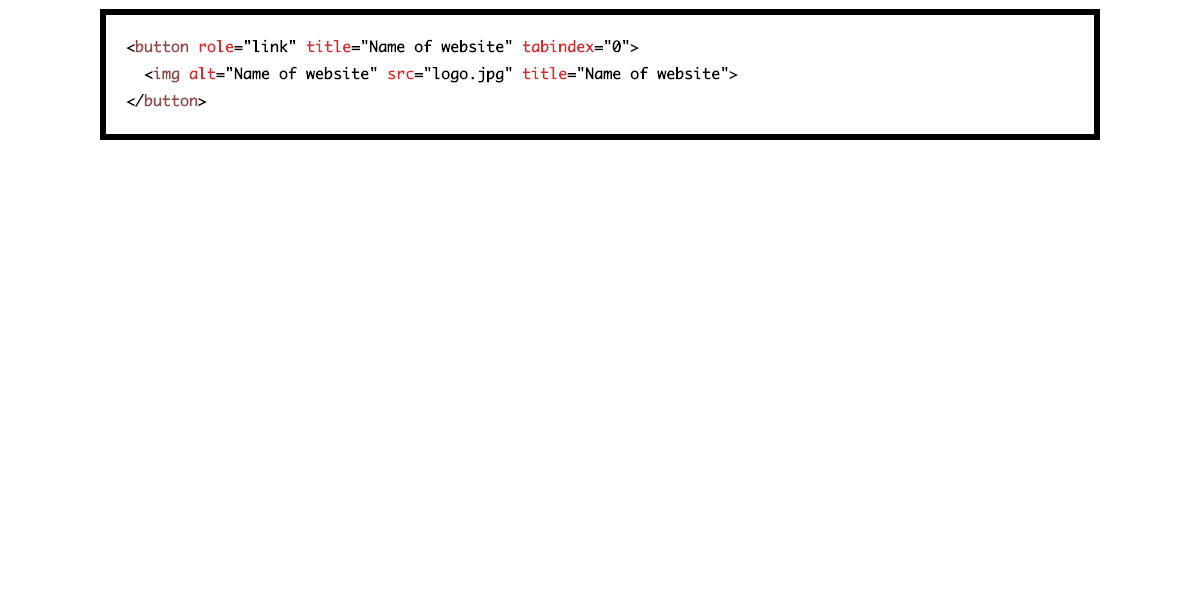
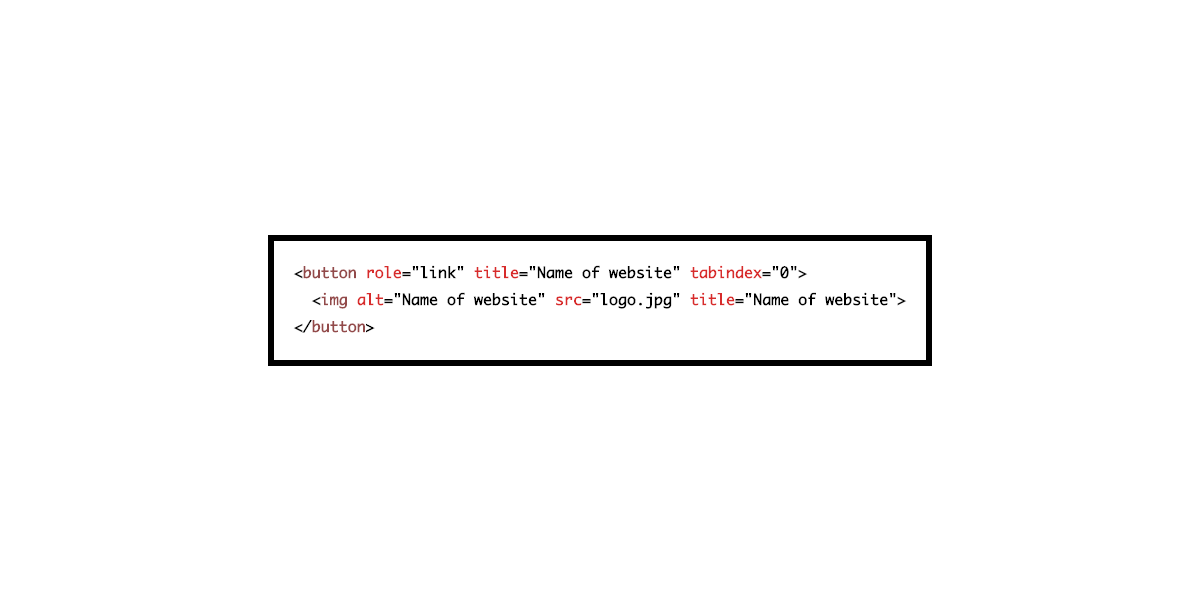
Fix alignment in og images

Changed region(s): [[0.0617, 0.0, 0.925, 0.24], [0.2158, 0.39, 0.8017, 0.63]]

diff --git a/hell/assets/min/style.min.css b/hell/assets/min/style.min.css
@@ -1,2 +1,2 @@
 code[class*=language-],pre[class*=language-]{color:#000;background:0 0;font-family:Consolas,Monaco,'Andale Mono','Ubuntu Mono',monospace;text-align:left;white-space:pre;word-spacing:normal;word-break:normal;word-wrap:normal;line-height:1.8;-moz-tab-size:4;-o-tab-size:4;tab-size:4;-webkit-hyphens:none;-moz-hyphens:none;-ms-hyphens:none;hyphens:none}pre[class*=language-]{padding:1em;margin:.5em 0;overflow:auto;border-radius:0;border:6px solid #000}:not(pre)>code[class*=language-],pre[class*=language-]{background:#fff;font-size:1.7rem;font-weight:700}:not(pre)>code[class*=language-]{padding:.1em;border-radius:0;white-space:normal}.token.cdata,.token.comment,.token.doctype,.token.prolog{color:#737373}.token.punctuation{color:#000}.token.constant,.token.deleted,.token.property,.token.symbol,.token.tag{color:#924a4a}.token.boolean,.token.number{color:#00e0e0}.token.attr-name,.token.builtin,.token.char,.token.inserted,.token.selector,.token.string{color:#d72b2b}.language-css .token.string,.style .token.string,.token.entity,.token.operator,.token.url,.token.variable{color:#00e0e0}.token.atrule,.token.attr-value,.token.function{color:#000}.token.keyword{color:#00e0e0}.token.important,.token.regex{color:gold}.token.bold,.token.important{font-weight:700}.token.italic{font-style:italic}.token.entity{cursor:help}@media screen and (-ms-high-contrast:active){code[class*=language-],pre[class*=language-]{color:windowText;background:window}:not(pre)>code[class*=language-],pre[class*=language-]{background:window}.token.important{background:highlight;color:window;font-weight:400}.token.atrule,.token.attr-value,.token.function,.token.keyword,.token.operator,.token.selector{font-weight:700}.token.attr-value,.token.comment,.token.doctype,.token.function,.token.keyword,.token.operator,.token.property,.token.string{color:highlight}.token.attr-value,.token.url{font-weight:400}}code{background:#000;color:#fff;padding:.1rem .3rem .3rem;border-radius:.2rem;display:inline-block;font-family:Consolas,Monaco,'Andale Mono','Ubuntu Mono',monospace;line-height:1;font-size:1.5rem}
-*{box-sizing:border-box}html{font-size:62.5%}body{font-size:1.6rem;font-family:sans-serif;line-height:1.6;max-width:104rem;margin:0 auto;background-color:#fff}.screenshot{height:100%}.screenshot body{height:100%;display:flex;justify-content:center;align-items:center}.screenshot .section:not(.bad),.screenshot footer,.screenshot h1,.screenshot h2,.screenshot header{display:none}.screenshot pre[class*=language-]{white-space:normal!important}.screenshot .site-content{padding:0}@media (min-width:768px){body{font-size:1.9rem;line-height:1.8}}h1{color:#d72b2b;margin-top:0;font-size:2.8rem;line-height:1.2}@media (min-width:768px){h1{font-size:3.5rem}}h2{margin:0 0 1.6rem}ol[class],ul[class]{padding:0;margin:0;list-style:none}ol{padding-left:2rem}@media (min-width:768px){ol{padding-left:4rem}}li{margin-bottom:1.6rem}p{margin:0 0 2.4rem}a:link{color:#d72b2b}a:visited{color:#a83636}a:hover{text-decoration:none}:focus{outline:5px solid #a83636}.u-hidden{position:absolute;white-space:nowrap;width:1px;height:1px;overflow:hidden;border:0;padding:0;clip:rect(0 0 0 0);clip-path:inset(50%);margin:-1px}.site-header{padding-top:3rem;padding-bottom:3rem;position:relative}@media (min-width:768px){.site-header{padding-top:6rem;padding-bottom:4rem}}.site-intro{font-size:2.2rem;text-align:center;font-weight:700;line-height:1.5;max-width:36ch;margin-left:auto;margin-right:auto}@media (min-width:768px){.site-intro{margin-bottom:4.8rem}}.site-rss{position:absolute;right:2rem;top:2rem}@media (min-width:768px){.site-rss{top:6rem}}.site-logo-link{transform:translateX(-50%) rotate(360deg);position:relative;left:50%;display:inline-block}.site-logo{display:none}@supports(display:grid){.site-logo{display:block}}.site-logo__666{transition:opacity .3s ease-in,fill .6s ease-in;fill:#d72b2b;opacity:0}.site--loaded .site-logo__1{opacity:1;transition-delay:.3s;fill:#000}.site--loaded .site-logo__2{opacity:1;transition-delay:.5s;fill:#000}.site--loaded .site-logo__3{opacity:1;transition-delay:.7s;fill:#000}.site--loaded .site-logo__4{opacity:1;transition-delay:.9s;fill:#000}.site--loaded .site-logo__5{opacity:1;transition-delay:1.3s}.site-logo:hover polygon{fill:#d72b2b}@media (min-width:768px){.site-logo{height:30.4rem}}.site-content{padding:0 2rem;max-width:100rem;margin:0 auto;position:relative;display:block}@media (min-width:768px){.site-content{padding-left:13rem;padding-right:13rem}}.preview{margin-bottom:5.7rem}.preview__header{margin-bottom:2.4rem}.preview__heading{margin-bottom:0;line-height:1.5}.site-footer{margin:4.8rem 2rem 2rem;max-width:74rem}@media (min-width:768px){.site-footer{margin-left:auto;margin-right:auto}}.section{margin-bottom:3.2rem}@media (min-width:768px){.section{margin-bottom:4.6rem}}
+*{box-sizing:border-box}html{font-size:62.5%}body{font-size:1.6rem;font-family:sans-serif;line-height:1.6;max-width:104rem;margin:0 auto;background-color:#fff}@media (min-width:768px){body{font-size:1.9rem;line-height:1.8}}h1{color:#d72b2b;margin-top:0;font-size:2.8rem;line-height:1.2}@media (min-width:768px){h1{font-size:3.5rem}}h2{margin:0 0 1.6rem}ol[class],ul[class]{padding:0;margin:0;list-style:none}ol{padding-left:2rem}@media (min-width:768px){ol{padding-left:4rem}}li{margin-bottom:1.6rem}p{margin:0 0 2.4rem}a:link{color:#d72b2b}a:visited{color:#a83636}a:hover{text-decoration:none}:focus{outline:5px solid #a83636}.u-hidden{position:absolute;white-space:nowrap;width:1px;height:1px;overflow:hidden;border:0;padding:0;clip:rect(0 0 0 0);clip-path:inset(50%);margin:-1px}.site-header{padding-top:3rem;padding-bottom:3rem;position:relative}@media (min-width:768px){.site-header{padding-top:6rem;padding-bottom:4rem}}.site-intro{font-size:2.2rem;text-align:center;font-weight:700;line-height:1.5;max-width:36ch;margin-left:auto;margin-right:auto}@media (min-width:768px){.site-intro{margin-bottom:4.8rem}}.site-rss{position:absolute;right:2rem;top:2rem}@media (min-width:768px){.site-rss{top:6rem}}.site-logo-link{transform:translateX(-50%) rotate(360deg);position:relative;left:50%;display:inline-block}.site-logo{display:none}@supports(display:grid){.site-logo{display:block}}.site-logo__666{transition:opacity .3s ease-in,fill .6s ease-in;fill:#d72b2b;opacity:0}.site--loaded .site-logo__1{opacity:1;transition-delay:.3s;fill:#000}.site--loaded .site-logo__2{opacity:1;transition-delay:.5s;fill:#000}.site--loaded .site-logo__3{opacity:1;transition-delay:.7s;fill:#000}.site--loaded .site-logo__4{opacity:1;transition-delay:.9s;fill:#000}.site--loaded .site-logo__5{opacity:1;transition-delay:1.3s}.site-logo:hover polygon{fill:#d72b2b}@media (min-width:768px){.site-logo{height:30.4rem}}.site-content{padding:0 2rem;max-width:100rem;margin:0 auto;position:relative;display:block}@media (min-width:768px){.site-content{padding-left:13rem;padding-right:13rem}}.preview{margin-bottom:5.7rem}.preview__header{margin-bottom:2.4rem}.preview__heading{margin-bottom:0;line-height:1.5}.site-footer{margin:4.8rem 2rem 2rem;max-width:74rem}@media (min-width:768px){.site-footer{margin-left:auto;margin-right:auto}}.section{margin-bottom:3.2rem}@media (min-width:768px){.section{margin-bottom:4.6rem}}.screenshot{height:100%;display:flex;justify-content:center;align-items:center}.screenshot .section:not(.bad),.screenshot footer,.screenshot h1,.screenshot h2,.screenshot header{display:none}.screenshot pre[class*=language-]{white-space:normal!important}.screenshot .bad{margin-bottom:0}.screenshot .site-content{padding:0}

diff --git a/hell/assets/style.css b/hell/assets/style.css
@@ -264,19 +264,13 @@ a:hover {
   }
 }
 
-/* Bad code only */
-
+/* Bad code only for og image screenshots */
 .screenshot {
-  height: 100%;
-}
-
-.screenshot body {
   height: 100%;
   display: flex;
   justify-content: center;
   align-items: center;
 }
-
 .screenshot h1,
 .screenshot h2,
 .screenshot .section:not(.bad),
@@ -287,6 +281,10 @@ a:hover {
 
 .screenshot pre[class*="language-"] {
   white-space: normal !important;
+}
+
+.screenshot .bad {
+  margin-bottom: 0;
 }
 
 .screenshot .site-content {

diff --git a/screenshot.js b/screenshot.js
@@ -8,7 +8,7 @@ const takeScreenshot = async (path) => {
   const page = await browser.newPage();
   await page.goto(`http://localhost:8080/${path}`);
   
-  await page.$$eval('body', html => {
+  await page.$$eval('html', html => {
     html[0].setAttribute('class', 'screenshot')
   });
 

diff --git a/README.md b/README.md
@@ -25,7 +25,7 @@ A collection of bad practices in HTML, copied from real websites.
 3. Take screenshot
 While the server is still running, run the following command to take a screenshot of your code.
 ```
-node screenshot
+npm run screenshot
 ```
 
 4. Push and create a pull request.
